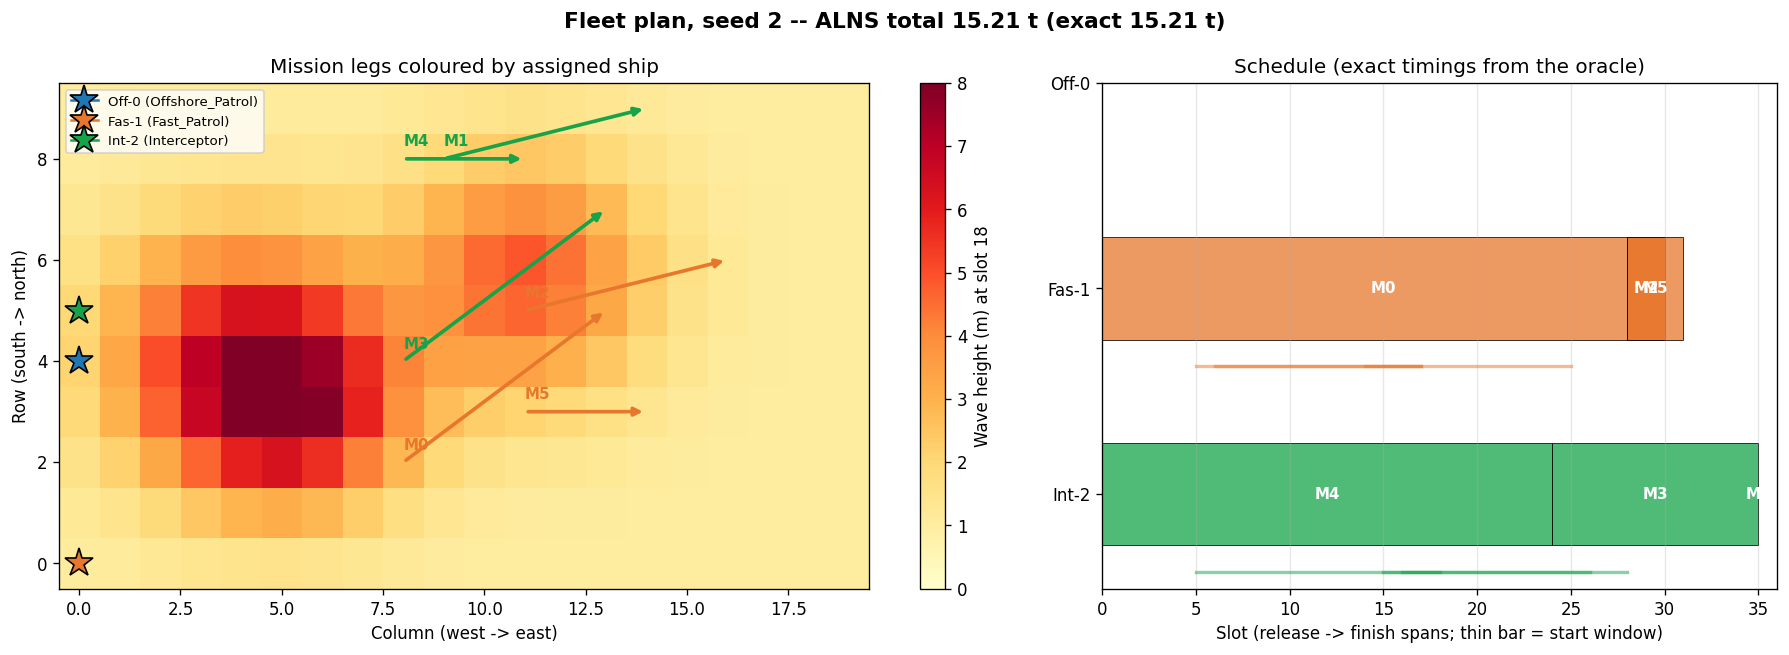
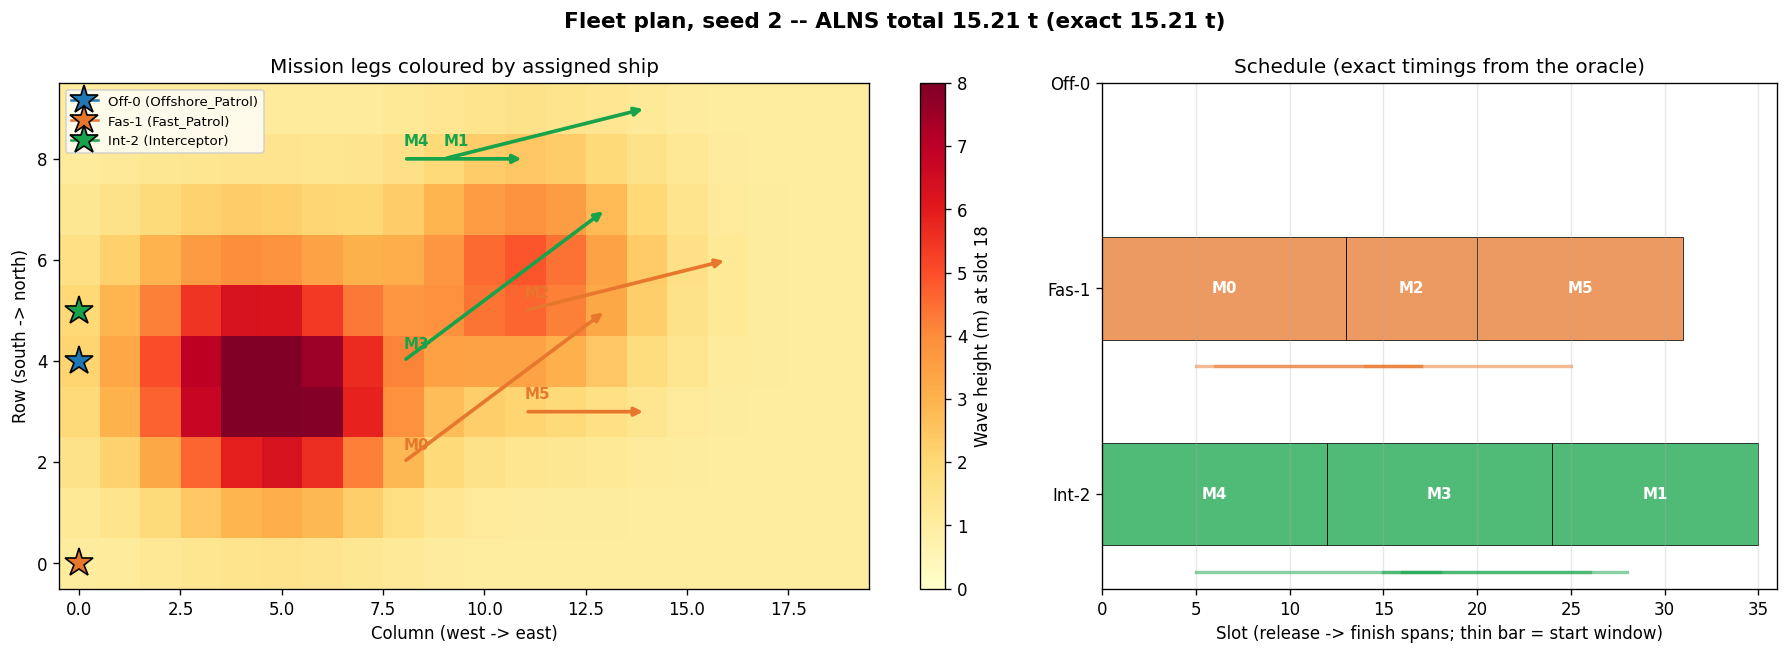
Fix fleet Gantt: draw the true consistent schedule, not per-prefix minima
The schedule panel drew each mission's bar by independently re-optimising the
prefix seq[:L] for minimum fuel. Because of the fuel-vs-finish-time Pareto
trade-off, a prefix's cheapest finish can be LATER than the full sequence
allows (an early mission must sometimes finish sooner so a later one still
makes its window). So the bars misrepresented the timeline (e.g. seed 0 drew
M0 finishing at slot 30 when the real optimal plan finishes it at 18).

Add Evaluator.ship_schedule(): backtracks the Pareto min-plus DP to recover
the single consistent (mission, release, finish) chain that achieves the
optimum, and draw the Gantt from that. Total fuel and window-feasibility were
always correct; only the visualisation is fixed. Plots regenerated.

diff --git a/fleet/matheuristic.py b/fleet/matheuristic.py
@@ -91,6 +91,45 @@ class Evaluator:
         self._cache[key] = (fuel, finish)
         return fuel, finish
 
+    def ship_schedule(self, ship: scen_mod.Ship, seq):
+        """Recover the TRUE consistent timeline (mission, release, finish) that
+        achieves the optimum total -- by backtracking the Pareto min-plus DP.
+
+        Needed because per-prefix minima do NOT chain: a prefix's cheapest
+        finish may be later than the finish the full sequence requires (an
+        early mission must sometimes finish sooner, burning slightly more, so a
+        later mission still makes its window). Use THIS for schedules/Gantts,
+        never independent prefix evaluations.
+        """
+        sf = self.tables[ship.ship_class]["serve_fuel"]
+        T = sf.shape[2]
+        loc = self.scn.home_loc(ship.id)
+        Fs, choices = [], []
+        F = None
+        for j in seq:
+            if F is None:
+                Fnew = sf[loc, j, 0, :].astype(float)
+                choice = np.zeros(T, dtype=int)
+            else:
+                M = F[:, None] + sf[loc, j, :, :]
+                choice = np.argmin(M, axis=0)
+                Fnew = M[choice, np.arange(T)]
+            if not np.isfinite(Fnew).any():
+                return None
+            Fs.append(Fnew)
+            choices.append(choice)
+            F = Fnew
+            loc = self.scn.end_loc(j)
+        if F is None:
+            return []
+        tf = int(np.argmin(Fs[-1]))
+        chain = []
+        for L in range(len(seq) - 1, -1, -1):
+            t0 = int(choices[L][tf])
+            chain.append((seq[L], t0, tf))            # (mission, release, finish)
+            tf = t0
+        return chain[::-1]
+
     def total(self, plan: dict[int, list[int]]) -> float:
         """Total fleet fuel; INF if any ship's sequence is infeasible or a
         mission is missing/duplicated."""

diff --git a/fleet/run_fleet.py b/fleet/run_fleet.py
@@ -75,10 +75,8 @@ def plot_plan(scn, ev, plan, title, out):
         y = len(scn.ships) - 1 - i
         yticks.append(y)
         ylabels.append(s.name)
-        rel = 0
-        for L in range(1, len(seq) + 1):
-            _, fin = ev.ship_cost(s, tuple(seq[:L]))
-            j = seq[L - 1]
+        # TRUE consistent timeline (backtracked), not per-prefix minima.
+        for (j, rel, fin) in ev.ship_schedule(s, tuple(seq)):
             m = scn.missions[j]
             ax2.barh(y, fin - rel, left=rel, height=0.5, color=col,
                      alpha=0.75, edgecolor="black", lw=0.6)
@@ -86,7 +84,6 @@ def plot_plan(scn, ev, plan, title, out):
                      fontsize=9, color="white", fontweight="bold")
             ax2.plot([m.es, m.ls], [y - 0.38, y - 0.38], color=col, lw=2,
                      alpha=0.5)
-            rel = fin
     ax2.set_yticks(yticks)
     ax2.set_yticklabels(ylabels)
     ax2.set_xlabel("Slot (release -> finish spans; thin bar = start window)")